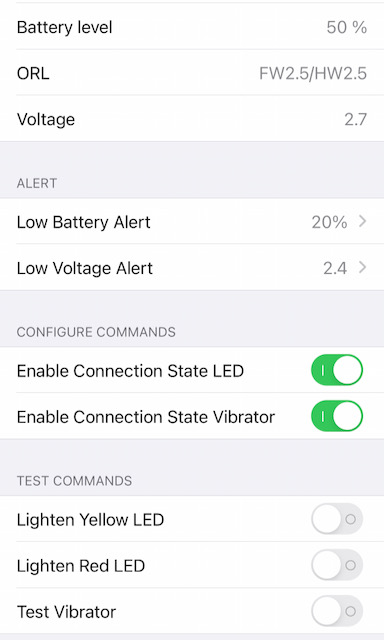
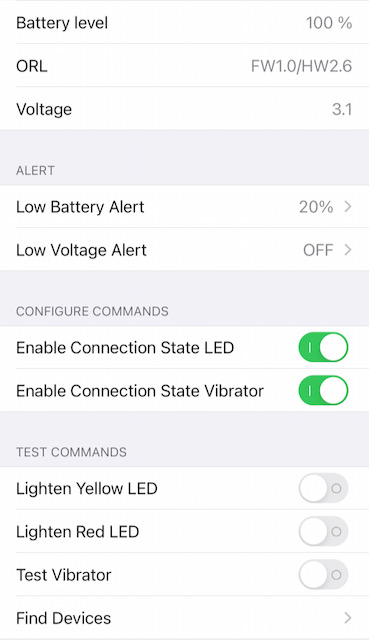
Updated Features docs
updated features docs and readme

diff --git a/README.md b/README.md
@@ -1,8 +1,5 @@
-# OrangeLink Loop/FreeAPS Feature Patch 2.5
+# OrangeLink Loop/FreeAPS Feature Patch 3.0
 ### What does this patch do?
-Features Require Orangelink Firmware v2.5 April 27 2021 (Update your OL Firmware First!)
-https://getrileylink.org/product/orangelink#firmware
-
 
 * Disables MySentry Packets to increase OrangeLink battery life with Medtronic x23/x54 pumps
 * Adds Battery Level Status Display (%)
@@ -13,12 +10,13 @@ https://getrileylink.org/product/orangelink#firmware
 * Adds Toggle to Enable/Disable Connection State 10 Second Blinking LED
 * Adds Toggle to Enable/Disable Connection State Disconnect Vibration Alert
 * Adds Test Switches to test Yellow and Red LED’s, and the Haptic Motor
+* Adds [FInd Device] Command (OrangeLink Pro Only)
 
 ![Features](https://github.com/jlucasvt/orangelink-feature-patch/raw/main/Features.jpeg?raw=true)
 ![Alerts](https://github.com/jlucasvt/orangelink-feature-patch/raw/main/Alerts.jpeg?raw=true)
 
 ### How do I get it?
-1. Update your OrangeLink to the latest Firmware Here: https://getrileylink.org/product/orangelink#firmware
+1. Update your OrangeLink or OrangeLink Pro to the latest Firmware Here: https://getrileylink.org/product/orangelink#firmware
 2. Copy Paste the following script reference into your MacOS "Terminal.app" and press {return} to run the script.
 
 ```
